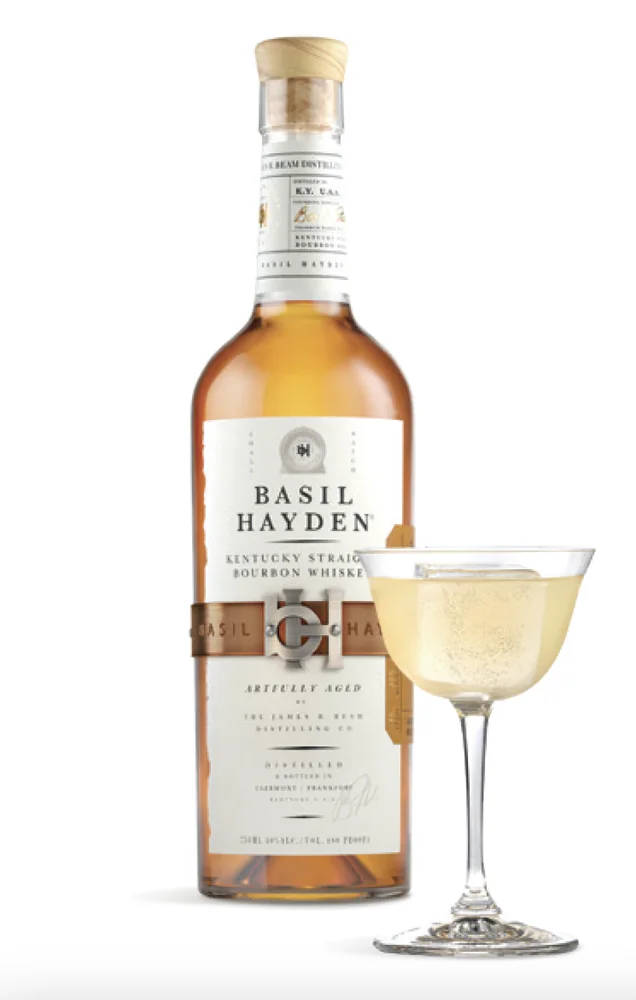
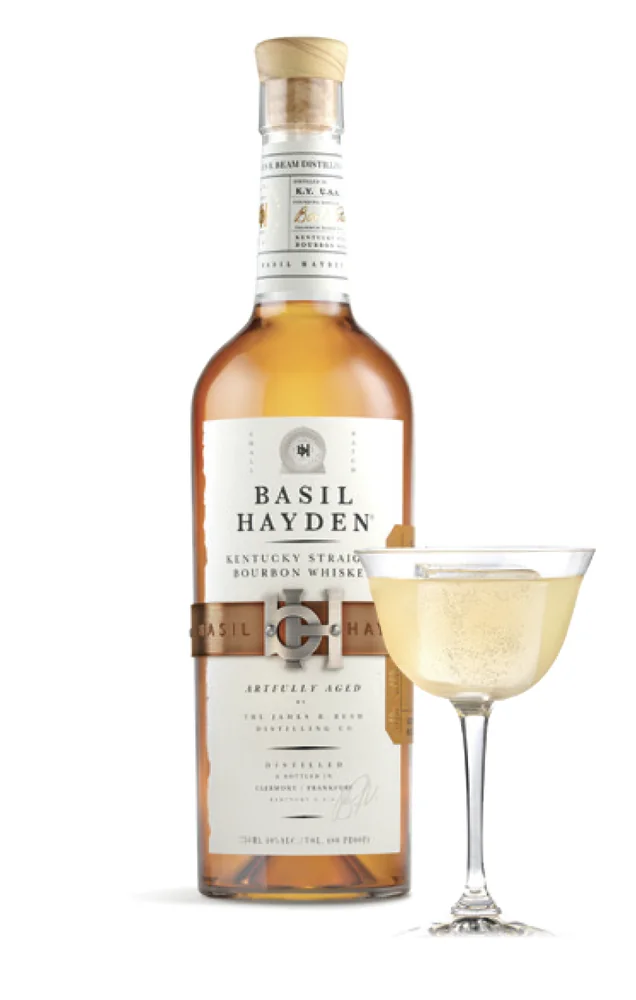
Drinks: remove baked-in shadow band on three shots, shrink -196 art
- Basil Hayden 75, Basil Hayden Sidecar, Haku Martini: whiten the grey
  ground shadow at the bottom of the source PNGs
- -196 can and highball sit at 72% height so they read in proportion to
  the full bottles around them

Claude-Session: https://claude.ai/code/session_01W7WsAKtG7CKUvTwXq2bVpo

Changed region(s): [[0.5676, 0.93, 0.9261, 0.961]]

diff --git a/assets/css/style.css b/assets/css/style.css
@@ -271,6 +271,7 @@ p { margin: 0 0 1em; }
 .drink__media { position: relative; aspect-ratio: 4 / 5; overflow: hidden; }
 .drink__media img { position: absolute; top: 4%; left: 6%; width: 88%; height: 92%; object-fit: contain; object-position: center bottom; transition: transform 0.9s var(--ease-out), filter 0.5s var(--ease); }
 .drink:hover .drink__media img, .drink.is-open .drink__media img { transform: scale(1.04); }
+.drink--small .drink__media img { top: 24%; height: 72%; }   /* -196: can + highball read too large next to full bottles */
 .drink__label { padding: 0.75rem 0.5rem 0.9rem; text-align: center; margin: 0; font-weight: 500; font-size: 0.8rem; letter-spacing: 0.06em; color: var(--ink); line-height: 1.35; }
 .drink__label small { display: block; font-weight: 500; font-size: 0.8rem; color: var(--ink); letter-spacing: 0.06em; }
 

diff --git a/index.html b/index.html
@@ -429,7 +429,7 @@
             </div>
           </li>
 
-          <li class="drink reveal">
+          <li class="drink drink--small reveal">
             <div class="drink__media">
               <picture>
                 <source srcset="assets/img/drinks/196-vodka-seltzer.webp" type="image/webp">
